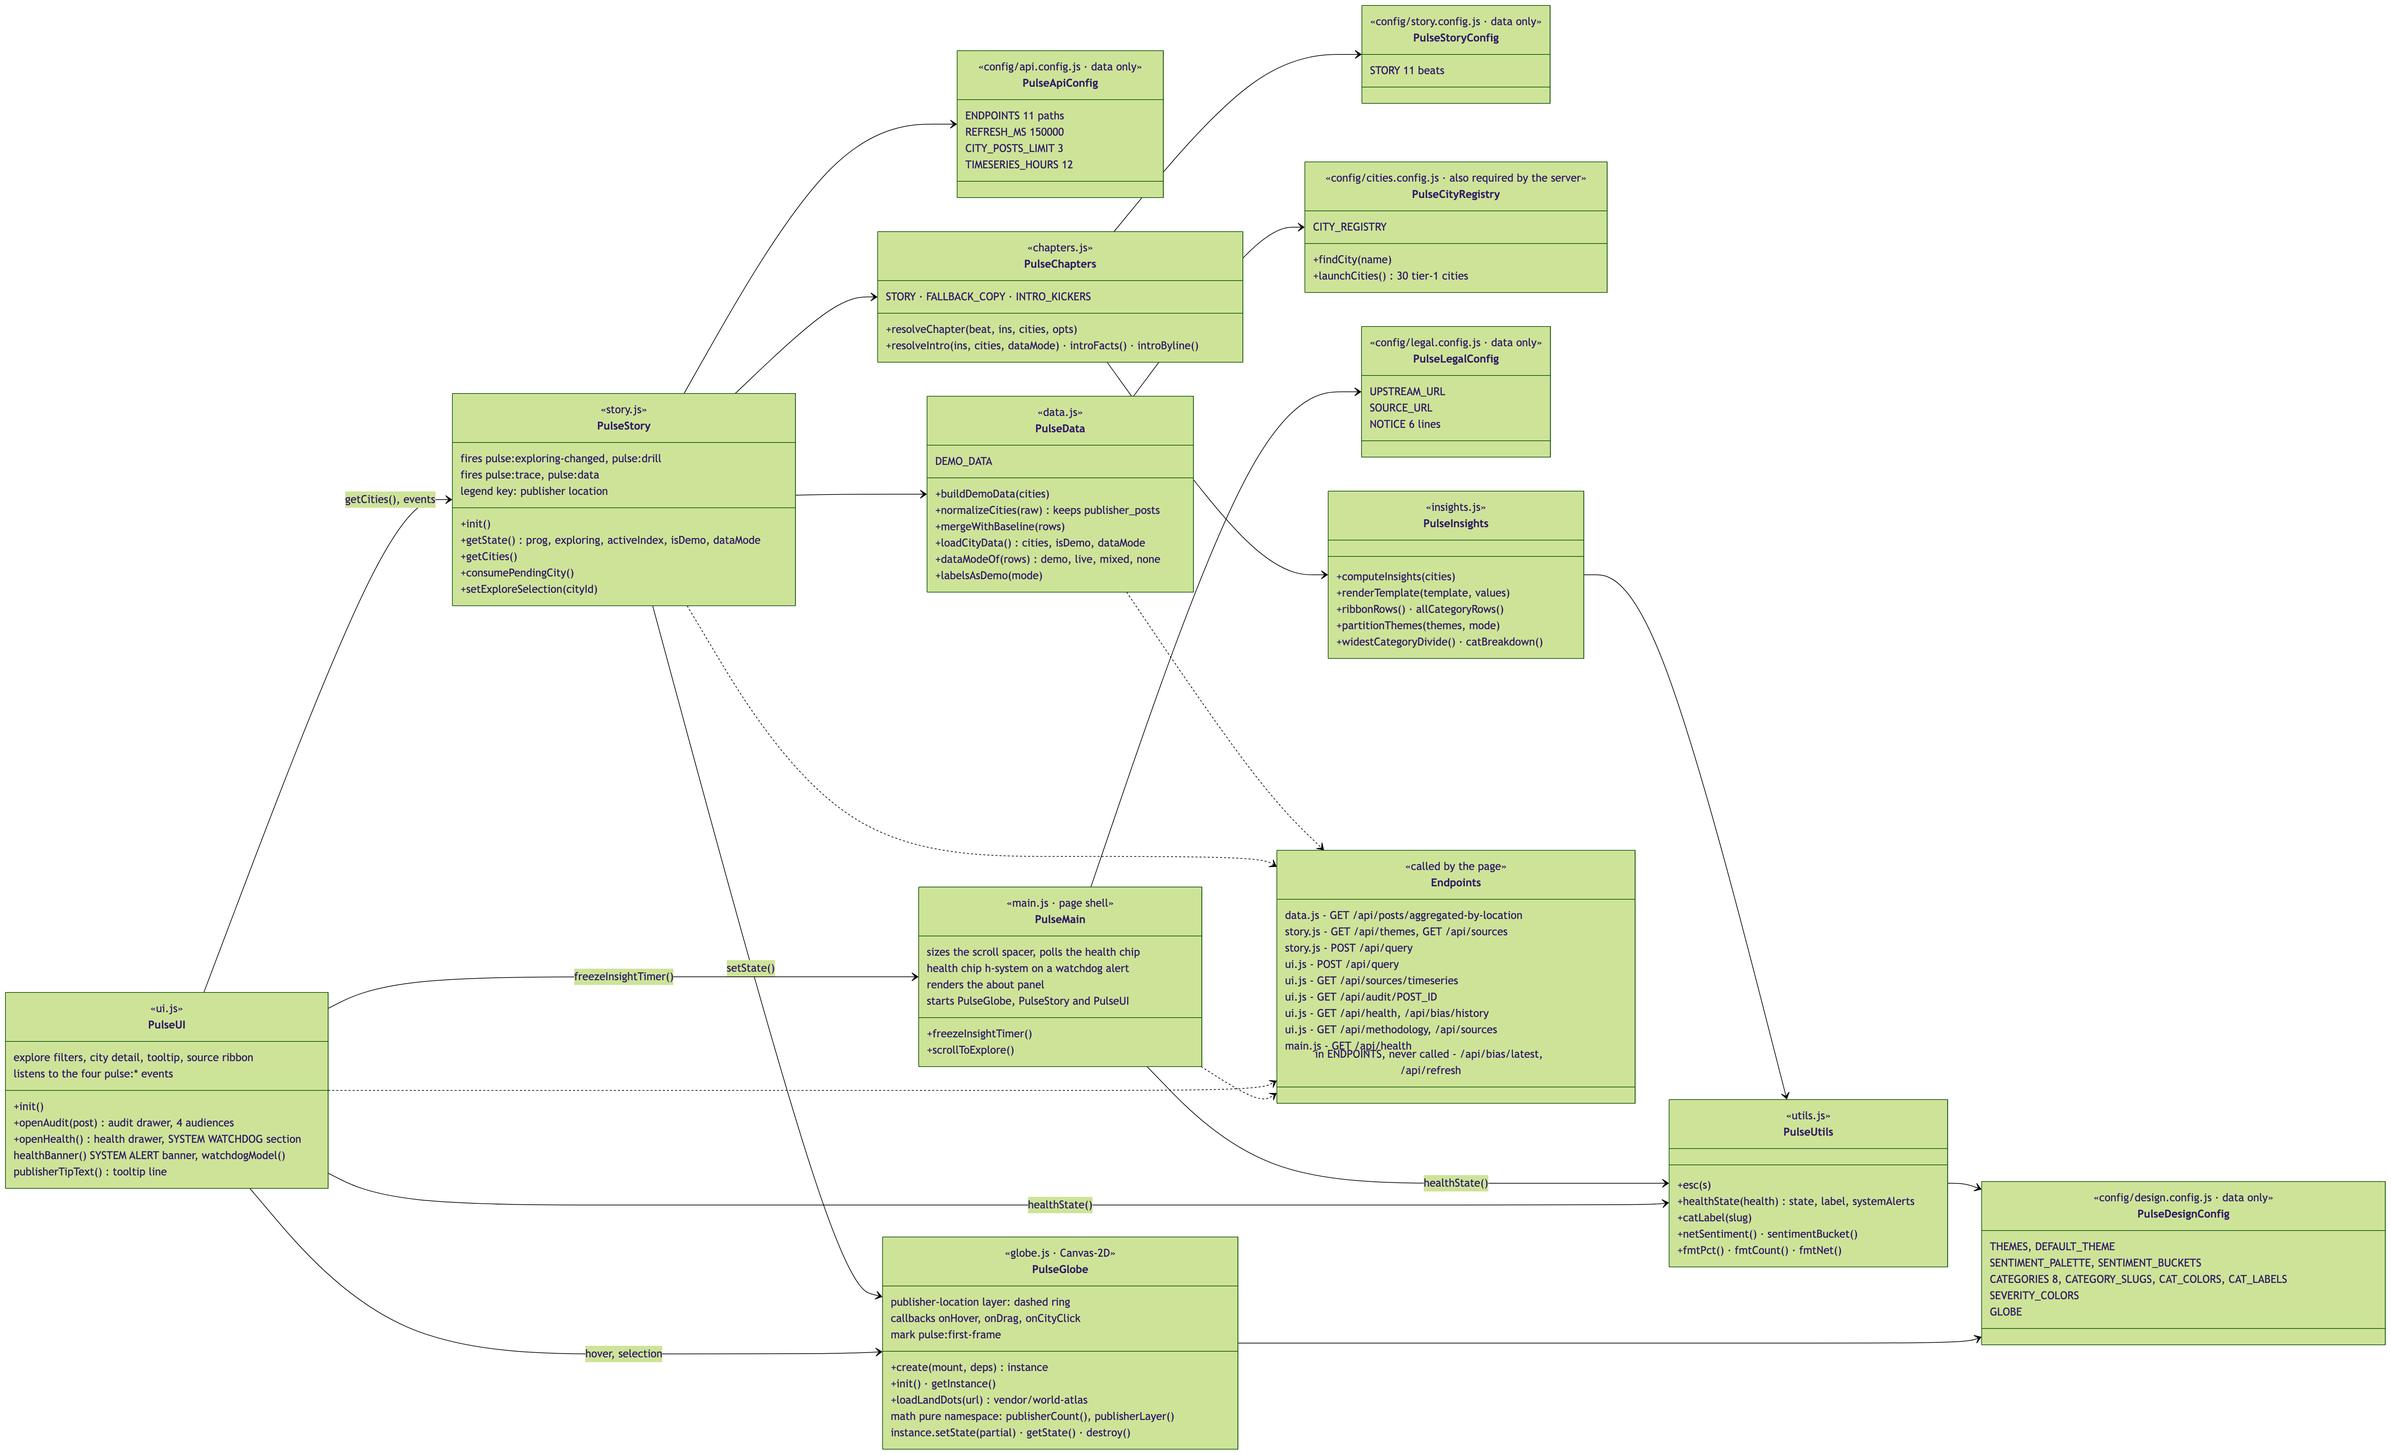
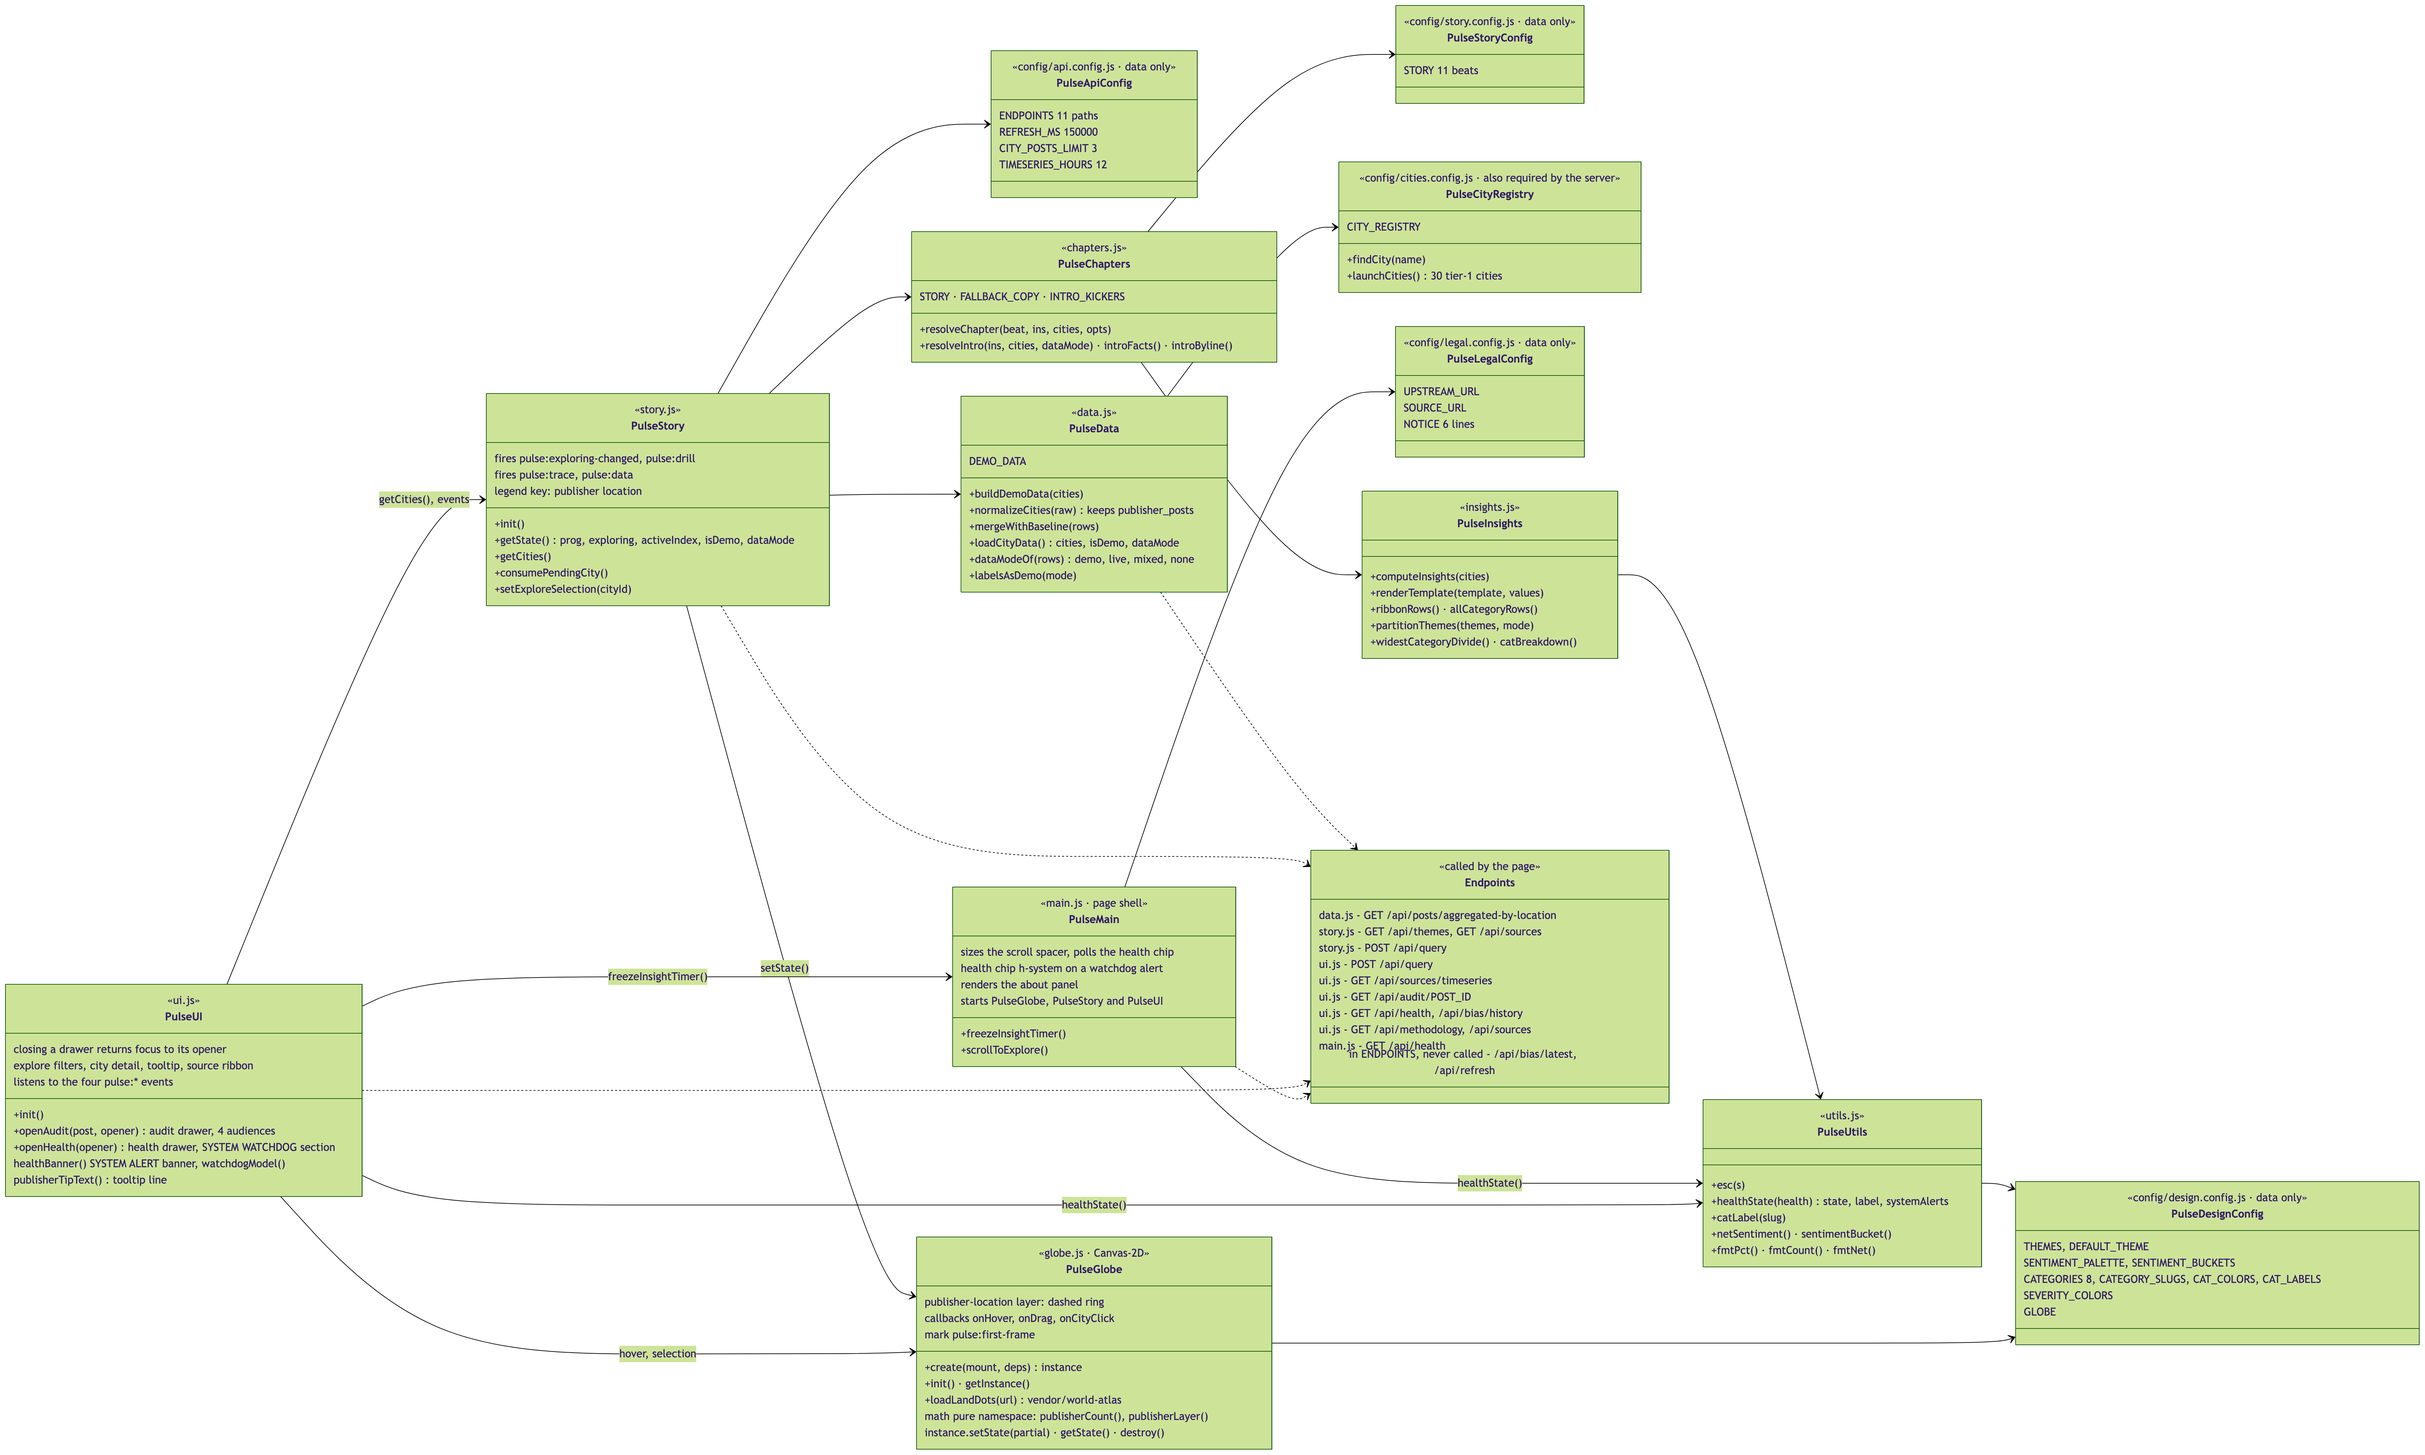
Pass each drawer's opener explicitly so focus returns in Safari
Safari does not focus a button on a mouse click, so the audit drawer read
document.activeElement as <body> when it opened, recorded no opener, and
closing it could not hand focus back (Copilot review on PR #40,
public/js/ui.js setDrawerOpen). Every opener now passes itself: the
featured-post button through story.js openTrace (and the pulse:trace event
detail), the explore "why?" buttons and the health chip. An explicit opener
also re-targets an already open drawer; activeElement is only the fallback
for a programmatic open. The new audit-drawer e2e test opens the receipt
with a click that does not move focus (dispatchEvent) from both entry
points and failed before this change. The frontend-modules diagram shows
the new openAudit(post, opener) / openHealth(opener) signatures.

diff --git a/public/js/ui.js b/public/js/ui.js
@@ -1520,7 +1520,7 @@
             }
             const why = el('button', 'btn-why mono', 'why?');
             why.type = 'button';
-            why.addEventListener('click', () => openAudit(p));
+            why.addEventListener('click', () => openAudit(p, why));
             row.appendChild(why);
             post.appendChild(row);
             wrap.appendChild(post);
@@ -1744,23 +1744,39 @@
 
     // ── Audit drawer ────────────────────────────────────────────────────────
 
-    // The control that had keyboard focus when each drawer opened, so
-    // closing can hand focus back to it instead of leaving it on the × in a
-    // now-hidden (aria-hidden) drawer.
+    // The control that opened each drawer, so closing can hand focus back
+    // to it instead of leaving it on the × in a now-hidden (aria-hidden)
+    // drawer.
     const drawerOpeners = new WeakMap();
 
-    // setDrawerOpen(drawer, open, fallback): show/hide a drawer. Opening
-    // remembers the focused opener; closing returns focus to it (or to
-    // `fallback` when the opener is gone or was never focused, e.g. Safari
-    // does not focus buttons on click) whenever focus sits inside the
-    // drawer or was lost to <body>. Focus the user moved elsewhere stays.
-    function setDrawerOpen(drawer, open, fallback) {
+    // isElementOutside(node, drawer): a real element that is not <body> and
+    // not inside the drawer — the only kind of opener worth refocusing.
+    function isElementOutside(node, drawer) {
+        return !!node && typeof node.focus === 'function'
+            && node !== document.body && !drawer.contains(node);
+    }
+
+    // setDrawerOpen(drawer, open, control): show/hide a drawer.
+    // Opening: `control` is the element that opened the drawer, passed
+    // explicitly by every click handler — Safari does not focus a button on
+    // a mouse click, so document.activeElement cannot be trusted to name
+    // the opener (Copilot review on PR #40). Only when no control is passed
+    // (a programmatic open) is the focused element remembered instead.
+    // Closing: `control` is the fallback (the drawer's controlling element)
+    // used when the opener is unknown or gone. Focus returns to the opener
+    // (or fallback) whenever it sits inside the drawer or was lost to
+    // <body>; focus the user moved elsewhere stays where it is.
+    function setDrawerOpen(drawer, open, control) {
         if (!drawer) return;
         const wasOpen = drawer.classList.contains('open');
         const active = typeof document !== 'undefined' ? document.activeElement : null;
-        if (open && !wasOpen && active && active !== document.body
-            && !drawer.contains(active)) {
-            drawerOpeners.set(drawer, active);
+        if (open && isElementOutside(control, drawer)) {
+            // An explicit opener always wins, also when a second "why?"
+            // re-targets an already open drawer.
+            drawerOpeners.set(drawer, control);
+        } else if (open && !wasOpen) {
+            if (isElementOutside(active, drawer)) drawerOpeners.set(drawer, active);
+            else drawerOpeners.delete(drawer);
         }
         drawer.classList.toggle('open', open);
         drawer.setAttribute('aria-hidden', open ? 'false' : 'true');
@@ -1771,7 +1787,7 @@
         const focusLost = !active || active === document.body || drawer.contains(active);
         if (!focusLost) return;
         const target = opener && opener.isConnected ? opener
-            : (fallback && fallback.isConnected ? fallback : null);
+            : (control && control.isConnected ? control : null);
         if (target && typeof target.focus === 'function') {
             target.focus();
         } else if (active && drawer.contains(active) && typeof active.blur === 'function') {
@@ -1780,11 +1796,14 @@
         }
     }
 
-    // openAudit(post): the receipt. `post` is a raw /api/query result row
-    // (live) or a demo row from demoPostsForCity. Called by the detail
-    // panel's "why?" buttons and DIRECTLY by story.js's featured-post
-    // button (C3 contract). Freezes the header timer on the FIRST receipt.
-    function openAudit(post) {
+    // openAudit(post, opener): the receipt. `post` is a raw /api/query
+    // result row (live) or a demo row from demoPostsForCity. Called by the
+    // detail panel's "why?" buttons and DIRECTLY by story.js's featured-post
+    // button (C3 contract); each passes its own button as `opener` so focus
+    // returns to it when the drawer closes (optional: a caller without one
+    // falls back to the focused element). Freezes the header timer on the
+    // FIRST receipt.
+    function openAudit(post, opener) {
         if (!post || typeof post !== 'object') return;
         if (window.PulseMain
             && typeof window.PulseMain.freezeInsightTimer === 'function') {
@@ -1792,7 +1811,7 @@
         }
         state.auditModel = null;
         renderAuditLoading(post);
-        setDrawerOpen(els.auditDrawer, true);
+        setDrawerOpen(els.auditDrawer, true, opener);
 
         if (state.isDemo || isDemoPostId(post.id) || typeof fetch !== 'function') {
             state.auditModel = demoAuditModel(post);
@@ -1985,8 +2004,10 @@
 
     // ── Health drawer ───────────────────────────────────────────────────────
 
-    function openHealth() {
-        setDrawerOpen(els.healthDrawer, true);
+    // openHealth(opener): `opener` is the control that opened the drawer
+    // (the header chip's click handler passes the chip).
+    function openHealth(opener) {
+        setDrawerOpen(els.healthDrawer, true, opener);
         if (els.healthChip) els.healthChip.setAttribute('aria-expanded', 'true');
         renderHealthLoading();
         if (typeof fetch !== 'function') {
@@ -2323,7 +2344,7 @@
             // enterExplore via consumePendingCity().
         });
         document.addEventListener('pulse:trace', (e) => {
-            if (e.detail && e.detail.post) openAudit(e.detail.post);
+            if (e.detail && e.detail.post) openAudit(e.detail.post, e.detail.opener);
         });
         document.addEventListener('pulse:data', (e) => {
             if (e.detail) onCitiesData(e.detail.cities, e.detail.isDemo, e.detail.dataMode);
@@ -2336,7 +2357,7 @@
                     && els.healthDrawer.classList.contains('open')) {
                     closeHealth();
                 } else {
-                    openHealth();
+                    openHealth(els.healthChip);
                 }
             });
         }

diff --git a/tests/e2e/audit-drawer.spec.ts b/tests/e2e/audit-drawer.spec.ts
@@ -3,10 +3,10 @@
 // table ≠ Researcher mono repro), bias layers render PASS / N-A rows with τ
 // values, the header timer freezes to "first receipt ✓" on the FIRST open,
 // and closing restores the prior view.
-import { test, expect } from '@playwright/test';
+import { test, expect, Page, Locator } from '@playwright/test';
 import {
     consoleErrors, expectNoConsoleErrors, gotoAndWaitForData,
-    scrollToBeat, stabilizeSnapshot, evidence,
+    scrollToBeat, stabilizeSnapshot, evidence, enterExplore,
 } from './helpers';
 
 test('audit drawer: audiences, bias layers, timer freeze, close restores view', async ({ page }) => {
@@ -118,6 +118,56 @@ test('audit drawer: audiences, bias layers, timer freeze, close restores view', 
     // Keyboard focus returns to the button that opened the receipt instead
     // of staying on the × inside the now-hidden drawer.
     await expect(opener).toBeFocused();
+
+    expectNoConsoleErrors(errors);
+});
+
+// Safari (and some assistive tech) do not focus a button on a mouse click,
+// so document.activeElement stays <body> when the receipt opens. The drawer
+// must still hand focus back to the button that opened it on close: each
+// opener passes itself explicitly instead of the drawer inferring it from
+// activeElement (Copilot thread on public/js/ui.js setDrawerOpen).
+// dispatchEvent('click') fires the click WITHOUT moving focus, reproducing
+// that browser behaviour in Chromium.
+async function openWithoutFocus(page: Page, opener: Locator) {
+    await page.evaluate(() => (document.activeElement as HTMLElement | null)?.blur());
+    await opener.dispatchEvent('click');
+    expect(await page.evaluate(() => document.activeElement === document.body),
+        'the synthetic click must leave focus on <body>').toBe(true);
+}
+
+test('audit drawer: focus returns to an opener the click never focused', async ({ page }) => {
+    const errors = consoleErrors(page);
+    await stabilizeSnapshot(page);
+    await gotoAndWaitForData(page);
+    const drawer = page.locator('#audit-drawer');
+
+    // 1. The CH04 featured-post button (story.js → PulseUI.openAudit).
+    await scrollToBeat(page, 4);
+    const card = page.locator('#card-col .chapter-card').nth(4);
+    await expect(card.locator('.mini-post')).toBeVisible({ timeout: 15000 });
+    const trace = card.locator('.btn-trace');
+    await openWithoutFocus(page, trace);
+    await expect(drawer).toHaveClass(/open/);
+    await drawer.locator('.drawer-x').click();
+    await expect(drawer).not.toHaveClass(/open/);
+    await expect(trace).toBeFocused();
+
+    // 2. An explore detail panel "why?" button (ui.js renderDetailPosts).
+    await enterExplore(page);
+    const target: string = await page.evaluate(() => {
+        const cities = (window as any).PulseStory.getCities().slice();
+        cities.sort((a: any, b: any) => b.total - a.total);
+        return cities[0].city;
+    });
+    await page.locator('#exp-filters .city-row', { hasText: target }).first().click();
+    const why = page.locator('#exp-detail .det-posts .btn-why').first();
+    await expect(why).toBeVisible({ timeout: 15000 });
+    await openWithoutFocus(page, why);
+    await expect(drawer).toHaveClass(/open/);
+    await drawer.locator('.drawer-x').click();
+    await expect(drawer).not.toHaveClass(/open/);
+    await expect(why).toBeFocused();
 
     expectNoConsoleErrors(errors);
 });

diff --git a/public/js/story.js b/public/js/story.js
@@ -20,7 +20,7 @@
 //         fired when a story-card drill chip is clicked; the same id is
 //         also held until consumePendingCity() is called, so ui.js can pick
 //         it up after its own init even if it missed the event.
-//   - CustomEvent 'pulse:trace'              detail {post: apiQueryRow}
+//   - CustomEvent 'pulse:trace'              detail {post: apiQueryRow, opener: HTMLButtonElement}
 //         fired by the featured-post "Why does it say that? →" button when
 //         window.PulseUI.openAudit is absent; when present it is called
 //         directly with the same post row instead.
@@ -427,12 +427,14 @@
 
     // openTrace: featured-post receipt hand-off — call the C4 hook when it
     // exists, otherwise fire the event so a later-loaded ui.js can replay it.
-    function openTrace(post) {
+    // `opener` is the button clicked, handed on so the drawer returns focus
+    // to it on close (a click does not focus a button in Safari).
+    function openTrace(post, opener) {
         const ui = window.PulseUI;
         if (ui && typeof ui.openAudit === 'function') {
-            ui.openAudit(post);
+            ui.openAudit(post, opener);
         } else {
-            dispatch('pulse:trace', { post });
+            dispatch('pulse:trace', { post, opener });
         }
     }
 
@@ -487,7 +489,7 @@
         row.appendChild(pill);
         const btn = el('button', 'btn-trace', 'Why does it say that? →');
         btn.type = 'button';
-        btn.addEventListener('click', () => openTrace(post));
+        btn.addEventListener('click', () => openTrace(post, btn));
         row.appendChild(btn);
         wrap.appendChild(row);
         wrap.hidden = false;

diff --git a/docs/diagrams/model/frontend-modules.html b/docs/diagrams/model/frontend-modules.html
@@ -121,8 +121,9 @@ classDiagram
   class PulseUI {
     &lt;&lt;ui.js&gt;&gt;
     +init()
-    +openAudit(post) audit drawer, 4 audiences
-    +openHealth() health drawer, SYSTEM WATCHDOG section
+    +openAudit(post, opener) audit drawer, 4 audiences
+    +openHealth(opener) health drawer, SYSTEM WATCHDOG section
+    closing a drawer returns focus to its opener
     healthBanner() SYSTEM ALERT banner, watchdogModel()
     publisherTipText() tooltip line
     explore filters, city detail, tooltip, source ribbon
